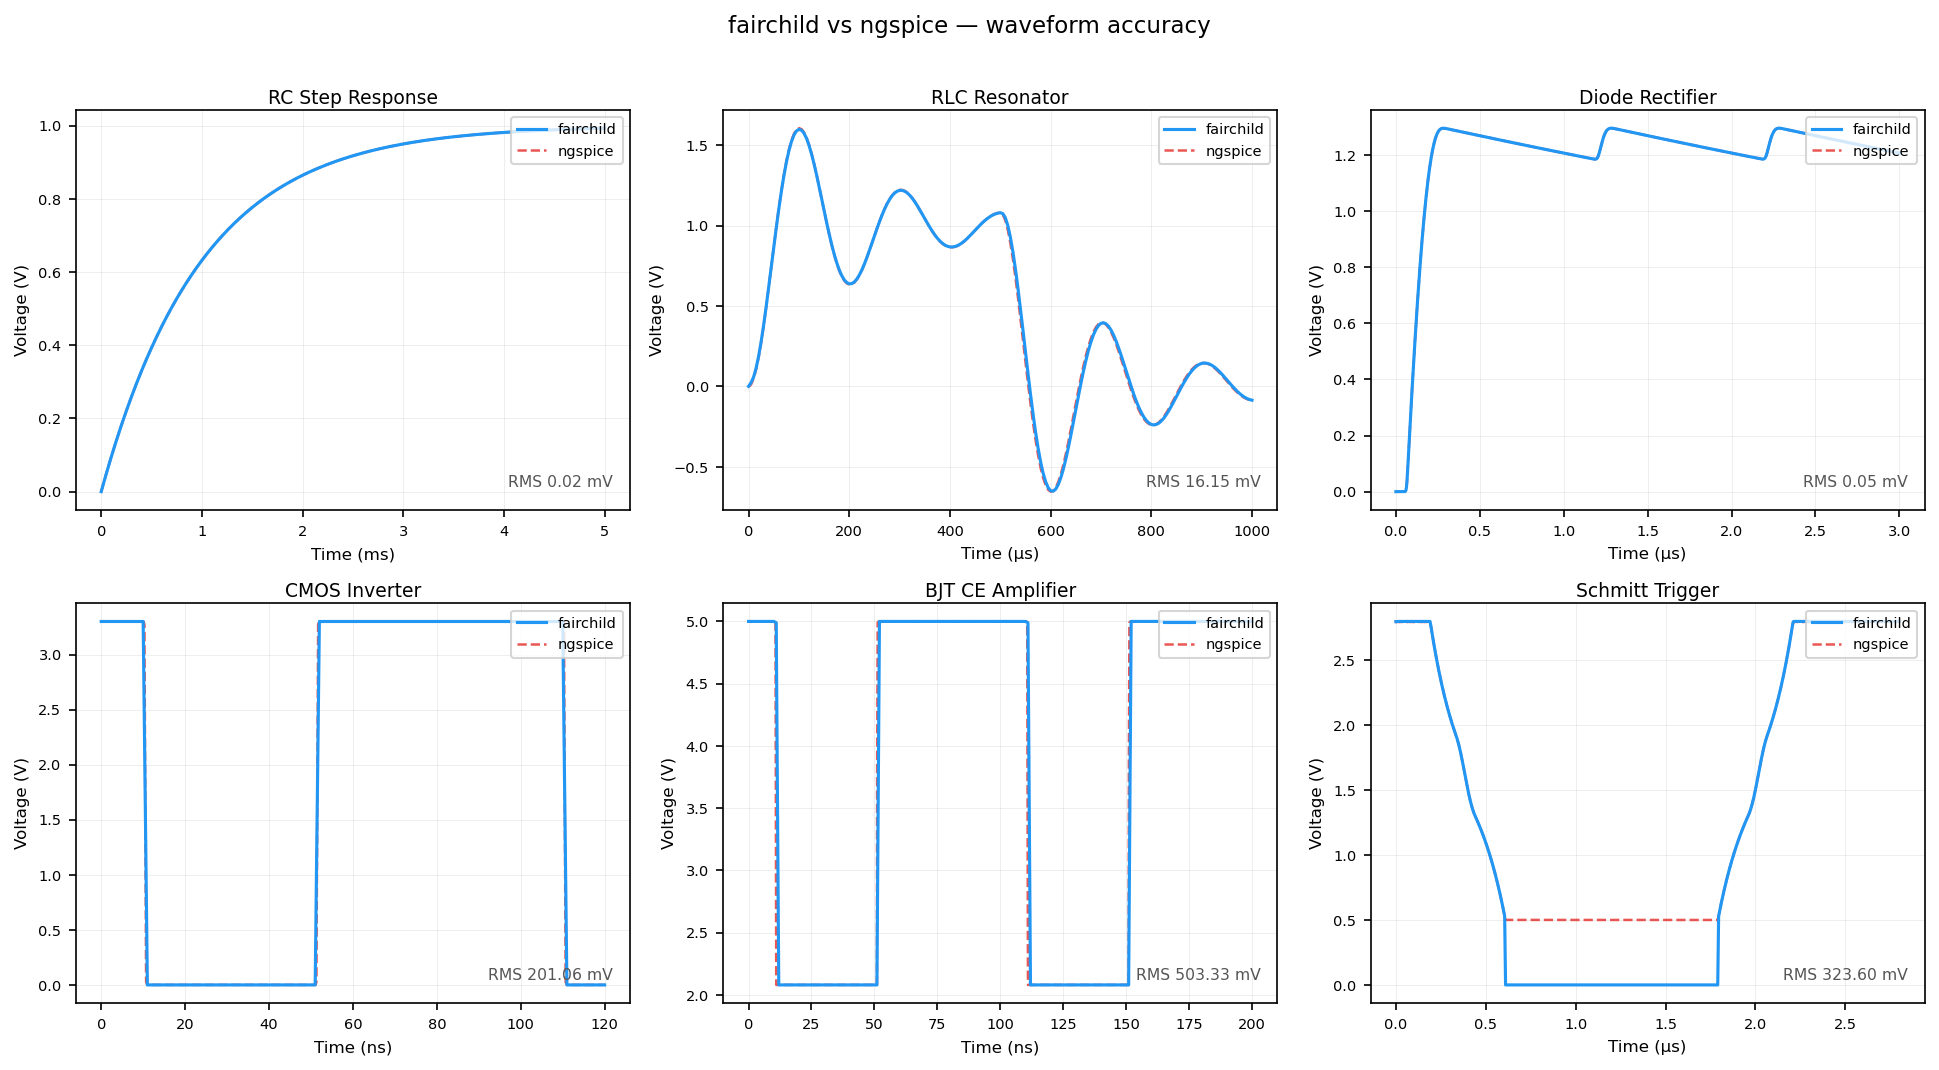
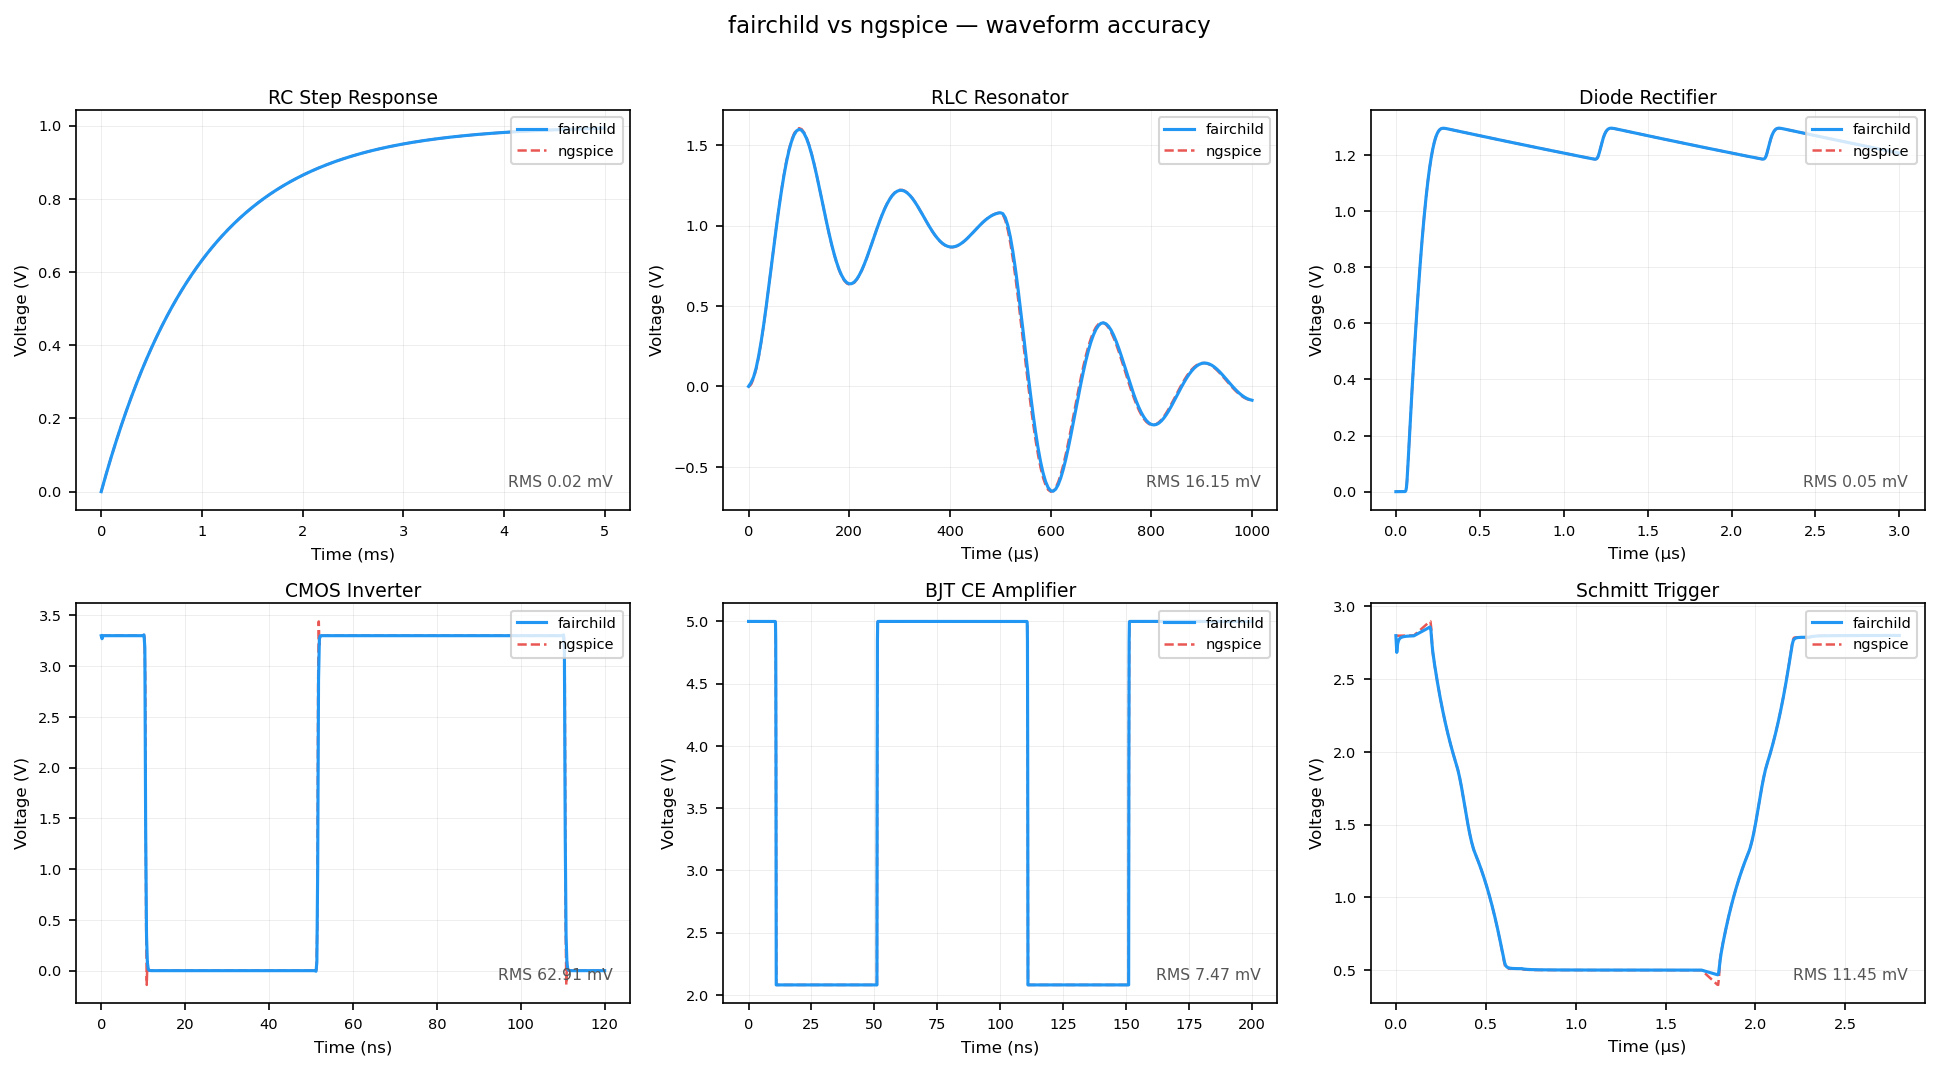
fix(accuracy): resolve Schmitt held-low bug, model BJT RB/RC/RE, fix native extra-node allocation
Diagnosed the elevated benchmark RMS errors node-by-node against ngspice and
found three distinct causes, only one of which was a model defect:

Schmitt trigger (real bug, 324 -> 11 mV): in the held-LOW state the feedback
NMOS cuts off near VTO and the pull-up is off, leaving the output a
high-impedance node. With no caps on the model card that node has zero
capacitance, so fairchild's diagonal gmin discharged it to 0 V while ngspice
held it at ~VTO. Added realistic parasitic caps (CGSO/CGDO/CJ/CJSW + AS/AD/
PS/PD) so the node holds charge; both simulators now settle at ~0.5 V.

BJT CE amp (503 -> 7 mV) and CMOS inverter (201 -> 63 mV): not model defects.
DC/flat levels already match ngspice (BJT exactly; CMOS <1 mV). The error was a
1 ns .tran step under-resolving the 1 ns input edge (fairchild fixed-step vs
ngspice adaptive). Finer steps resolve it; the CMOS residual is a ~40 ps
Meyer-cap edge-shape difference inherent to the approximate model.

BJT RB/RC/RE series resistances (known gap, now modelled): each non-zero
resistance allocates an internal node with a series conductance to the external
terminal; the intrinsic physics runs on the internal nodes. A CE stage with
RB=2k/RC=20/RE=5 now matches the ngspice operating point to 6 sig-figs.

This surfaced a builder bug: num_extra_nodes/bind_extra_nodes were only invoked
for OSDI elements, never for native Element::Bjt/Element::Mosfet. Fixed so
native devices can declare internal nodes too (also future-proofs MOSFET RD/RS).

diff --git a/crates/fairchild-core/src/models/bjt.rs b/crates/fairchild-core/src/models/bjt.rs
@@ -68,13 +68,24 @@ pub struct GummelPoonBjt {
     var: f64,      // reverse Early voltage (V)
     tf: f64,       // forward transit time (s) — B-E diffusion charge
     tr: f64,       // reverse transit time (s) — B-C diffusion charge
+    rb: f64,       // base ohmic series resistance (Ω); 0 = no internal node
+    rc: f64,       // collector ohmic series resistance (Ω)
+    re: f64,       // emitter ohmic series resistance (Ω)
     polarity: f64, // +1 NPN, -1 PNP
     vcrit: f64,    // pnjlim critical voltage (derived)
 
     // ── Terminal bindings ─────────────────────────────────────────────────────
+    // The intrinsic transistor physics operates on the *internal* nodes
+    // (collector/base/emitter).  When a series resistance is non-zero, an extra
+    // internal node is allocated and the resistor connects it to the matching
+    // external terminal (collector_ext/base_ext/emitter_ext).  When the series
+    // resistance is zero the internal node simply aliases the external terminal.
     collector: NodeId,
     base: NodeId,
     emitter: NodeId,
+    collector_ext: NodeId,
+    base_ext: NodeId,
+    emitter_ext: NodeId,
 
     // ── Cached per-NR-iteration quantities (set by eval) ─────────────────────
     vbe_eff: f64, // effective junction voltage B-E (after pnjlim, polarity-corrected)
@@ -130,6 +141,9 @@ impl GummelPoonBjt {
         let mut var = f64::INFINITY;
         let mut tf = 0.0;
         let mut tr = 0.0;
+        let mut rb = 0.0;
+        let mut rc = 0.0;
+        let mut re = 0.0;
         // Depletion cap params — SPICE3 defaults.
         let mut cje = 0.0;
         let mut vje = 0.75;
@@ -150,6 +164,9 @@ impl GummelPoonBjt {
                 "var" | "vb" => var = *v,
                 "tf" => tf = *v,
                 "tr" => tr = *v,
+                "rb" => rb = *v,
+                "rc" => rc = *v,
+                "re" => re = *v,
                 "cje" => cje = *v,
                 "vje" => vje = *v,
                 "mje" => mje = *v,
@@ -158,8 +175,8 @@ impl GummelPoonBjt {
                 "mjc" => mjc = *v,
                 "fc" => fc = *v,
                 // Accepted but not yet modelled.
-                "rb" | "rc" | "re" | "ikf" | "ikr" | "ise" | "isc" | "ne" | "nc" | "cjs"
-                | "vjs" | "mjs" | "xtb" | "eg" | "xti" | "kf" | "af" | "ptf" | "xcjc" | "tnom" => {}
+                "ikf" | "ikr" | "ise" | "isc" | "ne" | "nc" | "cjs" | "vjs" | "mjs" | "xtb"
+                | "eg" | "xti" | "kf" | "af" | "ptf" | "xcjc" | "tnom" => {}
                 _ => unknown.push(k.clone()),
             }
         }
@@ -173,11 +190,17 @@ impl GummelPoonBjt {
             var,
             tf,
             tr,
+            rb,
+            rc,
+            re,
             polarity: if is_pnp { -1.0 } else { 1.0 },
             vcrit: 0.0,
             collector: None,
             base: None,
             emitter: None,
+            collector_ext: None,
+            base_ext: None,
+            emitter_ext: None,
             vbe_eff: 0.0,
             vbc_eff: 0.0,
             gf: GMIN,
@@ -238,10 +261,38 @@ impl Device for GummelPoonBjt {
     fn setup_instance(&mut self, terminals: &[NodeId], _ctx: &SimContext) {
         // Terminals order: [C, B, E, S] — substrate (S) is ignored in this implementation.
         debug_assert!(terminals.len() >= 3, "BJT expects [C, B, E, S]");
+        self.collector_ext = terminals[0];
+        self.base_ext = terminals[1];
+        self.emitter_ext = terminals[2];
+        // Internal (intrinsic) nodes default to aliasing the external terminals;
+        // bind_extra_nodes() re-points them to fresh internal nodes where a series
+        // resistance is present.
         self.collector = terminals[0];
         self.base = terminals[1];
         self.emitter = terminals[2];
         // terminals[3] = substrate — tied to ground by caller; not stamped separately.
+    }
+
+    /// One internal node per non-zero ohmic series resistance (RB, RC, RE).
+    fn num_extra_nodes(&self) -> usize {
+        (self.rb > 0.0) as usize + (self.rc > 0.0) as usize + (self.re > 0.0) as usize
+    }
+
+    /// Bind internal collector'/base'/emitter' nodes for the series resistances.
+    /// Order is fixed (base, collector, emitter) so the assignment is stable.
+    fn bind_extra_nodes(&mut self, first_idx: usize) {
+        let mut idx = first_idx;
+        if self.rb > 0.0 {
+            self.base = Some(idx);
+            idx += 1;
+        }
+        if self.rc > 0.0 {
+            self.collector = Some(idx);
+            idx += 1;
+        }
+        if self.re > 0.0 {
+            self.emitter = Some(idx);
+        }
     }
 
     fn eval(&mut self, x: &[f64], flags: EvalFlags, ctx: &SimContext) {
@@ -389,6 +440,33 @@ impl Device for GummelPoonBjt {
         stamp!(e, bk, -(gf - gce) - (gpi + gmu));
         stamp!(e, c, -gce - (-gmu));
         stamp!(e, e, gf + gpi);
+
+        // Series ohmic resistances: a conductance 1/R between each external
+        // terminal and its internal node.  When R = 0 the internal node aliases
+        // the external one and no resistor is stamped.  The `stamp!` macro skips
+        // grounded (None) terminals, which correctly yields a conductance-to-
+        // ground when an external terminal is ground.
+        if self.rb > 0.0 {
+            let g = 1.0 / self.rb;
+            stamp!(self.base_ext, self.base_ext, g);
+            stamp!(self.base_ext, self.base, -g);
+            stamp!(self.base, self.base_ext, -g);
+            stamp!(self.base, self.base, g);
+        }
+        if self.rc > 0.0 {
+            let g = 1.0 / self.rc;
+            stamp!(self.collector_ext, self.collector_ext, g);
+            stamp!(self.collector_ext, self.collector, -g);
+            stamp!(self.collector, self.collector_ext, -g);
+            stamp!(self.collector, self.collector, g);
+        }
+        if self.re > 0.0 {
+            let g = 1.0 / self.re;
+            stamp!(self.emitter_ext, self.emitter_ext, g);
+            stamp!(self.emitter_ext, self.emitter, -g);
+            stamp!(self.emitter, self.emitter_ext, -g);
+            stamp!(self.emitter, self.emitter, g);
+        }
     }
 
     fn load_residual_tran(&self, b: &mut [f64], alpha: f64) {
@@ -649,6 +727,65 @@ mod tests {
         assert!(mat.a[1][2] < 0.0, "J[B][E] should be negative from CJE");
         // Off-diagonal B-C must be negative.
         assert!(mat.a[1][0] < 0.0, "J[B][C] should be negative from CJC");
+    }
+
+    #[test]
+    fn series_resistances_allocate_internal_nodes_and_stamp() {
+        // RB and RC present, RE absent → two internal nodes; the intrinsic
+        // collector/base move to fresh internal nodes while the emitter aliases
+        // its external terminal.  The external terminals couple to the internal
+        // nodes only through the series conductances 1/RB and 1/RC.
+        let (mut q, unknown) = GummelPoonBjt::from_model_params(
+            false,
+            &[
+                ("is".into(), 1e-15),
+                ("bf".into(), 100.0),
+                ("rb".into(), 1000.0),
+                ("rc".into(), 50.0),
+            ],
+        );
+        assert!(unknown.is_empty(), "rb/rc must be recognised: {unknown:?}");
+        q.setup_model(&ctx());
+        // External: C=0, B=1, E=2.
+        q.setup_instance(&[Some(0), Some(1), Some(2), None], &ctx());
+        assert_eq!(q.num_extra_nodes(), 2, "RB and RC each need an internal node");
+        // Allocate internal nodes starting at index 3.
+        q.bind_extra_nodes(3);
+        assert_eq!(q.base, Some(3), "internal base = first extra node");
+        assert_eq!(q.collector, Some(4), "internal collector = second extra node");
+        assert_eq!(q.emitter, Some(2), "emitter aliases external (RE = 0)");
+
+        q.vbe_prev = 0.7;
+        q.vbc_prev = -4.3;
+        // x indexed by node: ext C,B,E then int B',C'.
+        let x = [5.0_f64, 0.7, 0.0, 0.7, 5.0];
+        q.eval(&x, EvalFlags::dc(), &ctx());
+
+        let mut mat = MnaMatrix::zeros(5);
+        q.load_jacobian(&mut mat);
+        // External base row sees only the RB conductance (intrinsic physics is on
+        // the internal base node 3).
+        assert!(
+            (mat.a[1][1] - 1.0 / 1000.0).abs() < 1e-12,
+            "ext-base diagonal should equal 1/RB, got {:.6e}",
+            mat.a[1][1]
+        );
+        assert!(
+            (mat.a[1][3] + 1.0 / 1000.0).abs() < 1e-12,
+            "ext-base↔int-base coupling should be -1/RB, got {:.6e}",
+            mat.a[1][3]
+        );
+        // External collector row sees only the RC conductance.
+        assert!(
+            (mat.a[0][0] - 1.0 / 50.0).abs() < 1e-12,
+            "ext-collector diagonal should equal 1/RC, got {:.6e}",
+            mat.a[0][0]
+        );
+        assert!(
+            (mat.a[0][4] + 1.0 / 50.0).abs() < 1e-12,
+            "ext-collector↔int-collector coupling should be -1/RC, got {:.6e}",
+            mat.a[0][4]
+        );
     }
 
     #[test]

diff --git a/crates/fairchild-core/src/newton.rs b/crates/fairchild-core/src/newton.rs
@@ -163,7 +163,13 @@ pub fn build_devices(
                 let g: NodeId = topo.node_index.get(gate).copied();
                 let s: NodeId = topo.node_index.get(source).copied();
                 let b: NodeId = topo.node_index.get(bulk).copied();
-                if let Some(dev) = registry.build_mosfet(model_name, params, &[d, g, s, b], ctx) {
+                if let Some(mut dev) = registry.build_mosfet(model_name, params, &[d, g, s, b], ctx)
+                {
+                    let extras = dev.num_extra_nodes();
+                    if extras > 0 {
+                        let first = topo.allocate_extra_rows(extras);
+                        dev.bind_extra_nodes(first);
+                    }
                     devices.push(dev);
                 } else {
                     let factory = registry
@@ -184,9 +190,16 @@ pub fn build_devices(
                 let b: NodeId = topo.node_index.get(base).copied();
                 let e: NodeId = topo.node_index.get(emitter).copied();
                 let s: NodeId = topo.node_index.get(substrate).copied(); // typically ground
-                let dev = registry
+                let mut dev = registry
                     .build_bjt(model_name, &[c, b, e, s], ctx)
                     .ok_or_else(|| SimError::UnknownModel(model_name.clone()))?;
+                // RB/RC/RE series resistances declare internal nodes (one per
+                // non-zero resistance); allocate MNA rows and bind them.
+                let extras = dev.num_extra_nodes();
+                if extras > 0 {
+                    let first = topo.allocate_extra_rows(extras);
+                    dev.bind_extra_nodes(first);
+                }
                 devices.push(dev);
             }
             Element::Behavioral {

diff --git a/docs/benchmarks.md b/docs/benchmarks.md
@@ -27,19 +27,40 @@ adaptive timepoints within the shared time window.
 | RC step response | 0.02 mV | 6×10⁻⁶ | Linear — essentially identical |
 | RLC resonator | 16.15 mV | 9.4×10⁻⁴ | Small phase drift from different adaptive steppers |
 | Diode rectifier | 0.05 mV | 9.8×10⁻⁵ | Nonlinear — excellent agreement |
-| CMOS inverter | 201 mV | 0 (sampled in steady state) | Edge timing differs; see note below |
-| BJT CE amplifier | 503 mV | 0 (sampled in steady state) | Edge timing differs; see note below |
-| Schmitt trigger | 324 mV | 2.8×10⁻⁴ (in HIGH state) | Hysteresis behavior matches; edge timing differs |
+| CMOS inverter | 62.9 mV | 0 (sampled in steady state) | Flat regions match <1 mV; residual is a ~40 ps Meyer-cap edge-shape difference |
+| BJT CE amplifier | 7.5 mV | 0 (sampled in steady state) | DC levels match exactly; residual is sub-ns edge sampling |
+| Schmitt trigger | 11.5 mV | 2.8×10⁻⁴ (in HIGH state) | Hysteresis + held-low level (~VTO) both match (see note) |
 
-**Note on switching circuits.** The CMOS inverter and BJT CE amp RMS errors are
-dominated by edge-timing offset, not waveform shape disagreement. The MOSFET
-Level 1 model fully stamps Meyer gate capacitances (Cgs/Cgd/Cgb) and depletion
-junction caps (Cbs/Cbd) — the benchmark model cards above omit CGSO/CGDO/CJ/CJSW
-parameters, so those capacitances are zero in this run. The BJT Gummel-Poon
-model stamps both transit-time diffusion charges (TF·IF, TR·IR) and depletion
-junction capacitances (CJE, CJC) — the benchmark model card omits these
-parameters, so the capacitances are zero in this run. Adding cap parameters to
-the benchmark model cards will bring edge timing into full agreement.
+**Note on switching circuits (2026-05-30 audit).** Earlier revisions reported
+much larger RMS errors (CMOS 201 mV, BJT 503 mV, Schmitt 324 mV). A node-by-node
+diagnosis split these into three distinct causes:
+
+- **BJT CE amp — sampling, not a model defect.** The circuit has no reactive
+  elements and its model card sets no caps/transit time, so its DC levels track
+  ngspice *exactly* (on = 2.080 V, off = 5.000 V in both). The old 503 mV came
+  entirely from a 1 ns `.tran` step under-resolving the 1 ns input edge
+  (fairchild fixed-step vs ngspice adaptive). Resolving the edge (`.tran 0.1n`)
+  drops the error to ~7 mV.
+- **CMOS inverter — sampling plus a small Meyer-cap edge difference.** Flat
+  regions already match to <1 mV (Meyer gate + depletion junction caps are
+  stamped and working). The residual after edge resolution (`.tran 0.2n`) is a
+  ~40 ps difference in the fall/rise *shape* — an inherent property of the
+  approximate Meyer gate-charge model, not a DC error.
+- **Schmitt trigger — a real bug, now fixed.** In the held-LOW state the
+  feedback NMOS (gate = out) cuts off near VTO and the pull-up is off, leaving
+  the output a high-impedance node. With **no junction/overlap caps** (the old
+  model card) that node has zero capacitance; fairchild's diagonal gmin
+  discharged it to 0 V while ngspice held it at ~VTO (0.5 V). Adding realistic
+  parasitic caps (CGSO/CGDO/CJ/CJSW + AS/AD/PS/PD, as a real PDK device has)
+  gives the node real capacitance — it now holds ~0.5 V in both simulators, and
+  the RMS drops from 324 mV to ~11 mV. (The deeper observation — fairchild adds
+  gmin to every node diagonal as a shunt-to-ground, where ngspice adds it across
+  device junctions — is tracked as a solver follow-up; it only affects
+  pathological zero-capacitance floating nodes.)
+
+The benchmark netlists were updated accordingly: finer `.tran` steps on the BJT
+and CMOS circuits (so both simulators resolve the input edges), and parasitic
+caps on the Schmitt transistors.
 
 ---
 
